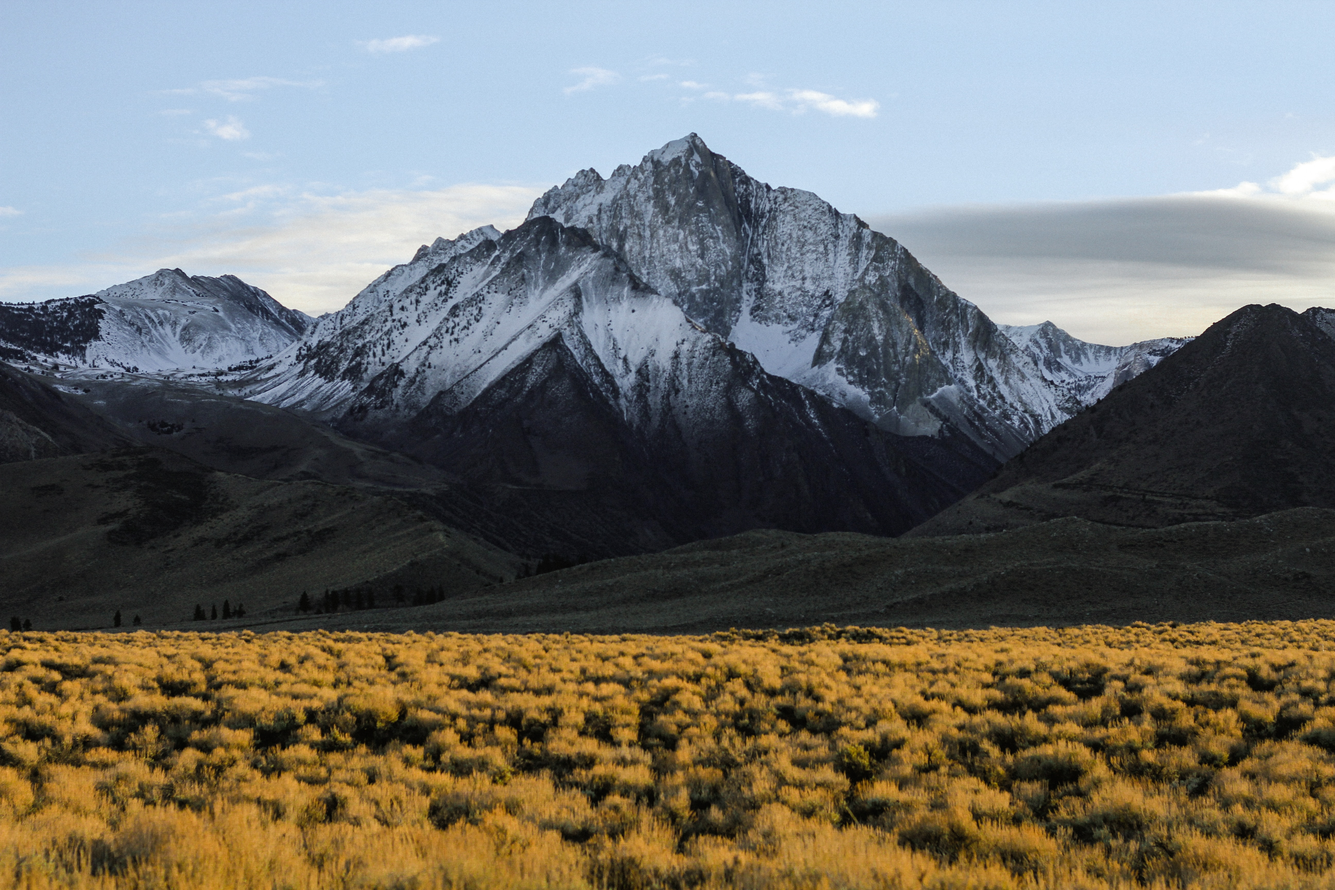
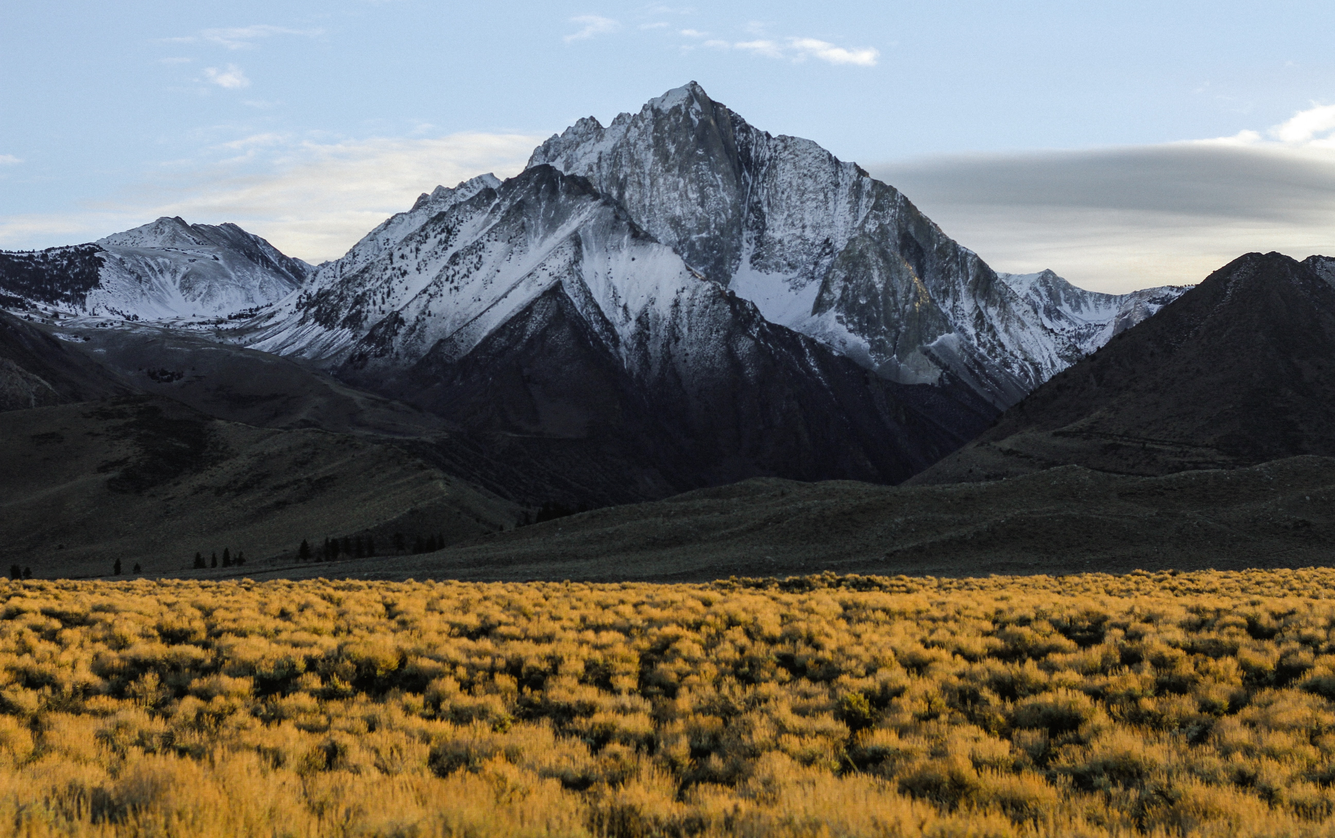
Update background image size and add sound effect

diff --git a/src/main.js b/src/main.js
@@ -56,17 +56,17 @@ $(document).ready(function() {
         $("#home-advantage").show();
         setTimeout(function() {
           $("#home-advantage").hide();
-          startGame();
+          startGame(match);
         }, 5000);
       } else if (computerFighter.atHome) {
         $("#at-home").text(`${computerFighter.name}`);
         $("#home-advantage").show();
         setTimeout(function() {
           $("#home-advantage").hide();
-          startGame();
+          startGame(match);
         }, 5000);
       } else {
-        startGame();
+        startGame(match);
       }
     }, 3200);
     $("#whoseTurn").html(`<h2>It's ${match.userFighter.name}'s turn!</h2>`);
@@ -76,7 +76,7 @@ $(document).ready(function() {
   });
 });
 
-function startGame() {
+function startGame(match) {
   $("#whoseTurn").show();
   $(".attack-buttons").show();
   $("#userHealth").show();

diff --git a/src/backend.js b/src/backend.js
@@ -1,5 +1,6 @@
 import $ from 'jquery';
 import TSwift from "./TSwift-goat.mp3";
+import Fart from "./fart-2.mp3";
 
 export class Match {
   constructor(userFighter, computerFighter) {
@@ -198,6 +199,11 @@ export function clickAttack(match, compAttacksArray) {
   $("#medAttack").click(medClick);
 
   const minClick = function(){
+    if (match.userFighter.name === "Lenny Crabitz") {
+      let fart = new Audio(Fart);
+      fart.play();
+      fart.volume = 0.1;
+    }
     match.minAttack(match.computerFighter);
     $("#userAttack").html(`<h2 class="userColor"><em>${$("#minAttack").text()}!</em></h2>`);
     $("#whoseTurn").html(`<h2>It's ${match.computerFighter.name}'s turn!</h2>`);

diff --git a/src/styles.css b/src/styles.css
@@ -133,14 +133,14 @@ h3 {
 #userHealthNumber {
   color: #e62e00;
   font-size: 150px;
-  -webkit-text-stroke-width: 3px;
+  -webkit-text-stroke-width: 5px;
   -webkit-text-stroke-color: black;
 }
 
 #computerHealthNumber {
   color: #7575a3;
   font-size: 150px;
-  -webkit-text-stroke-width: 3px;
+  -webkit-text-stroke-width: 5px;
   -webkit-text-stroke-color: black;
 }
 
